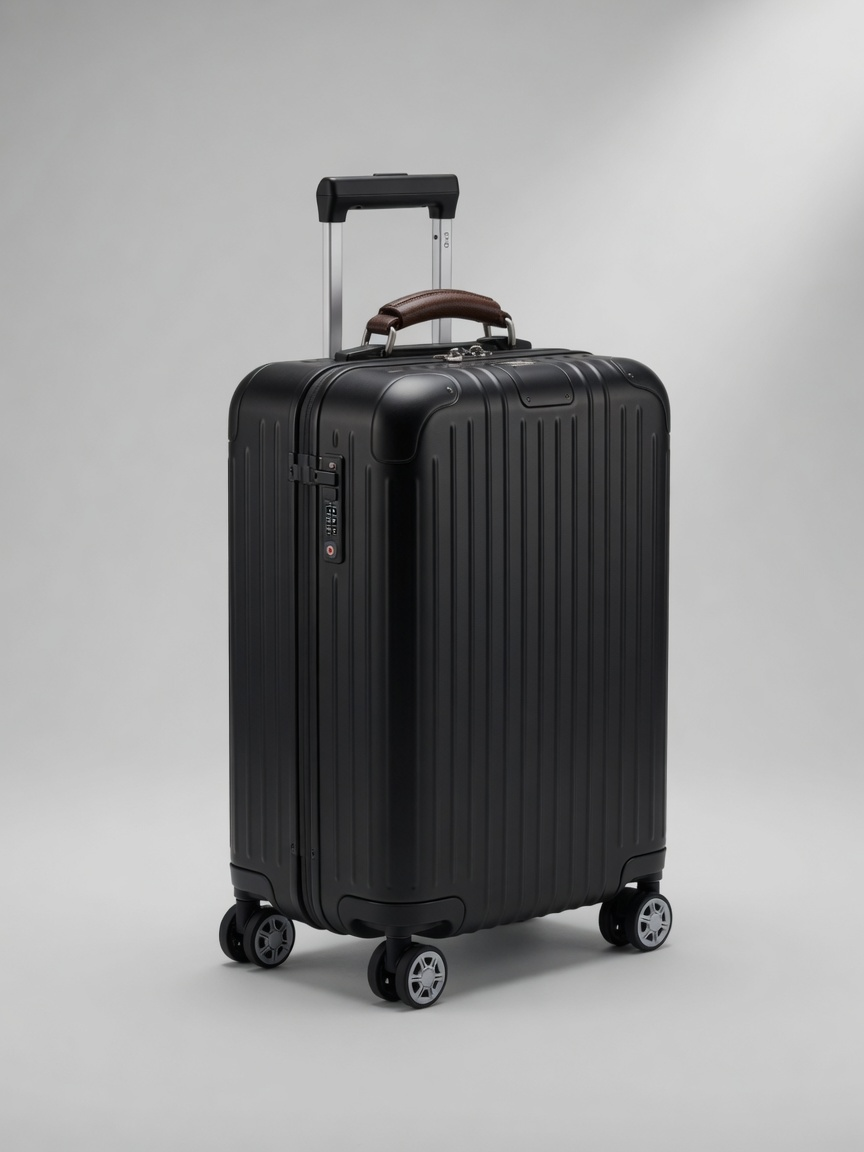
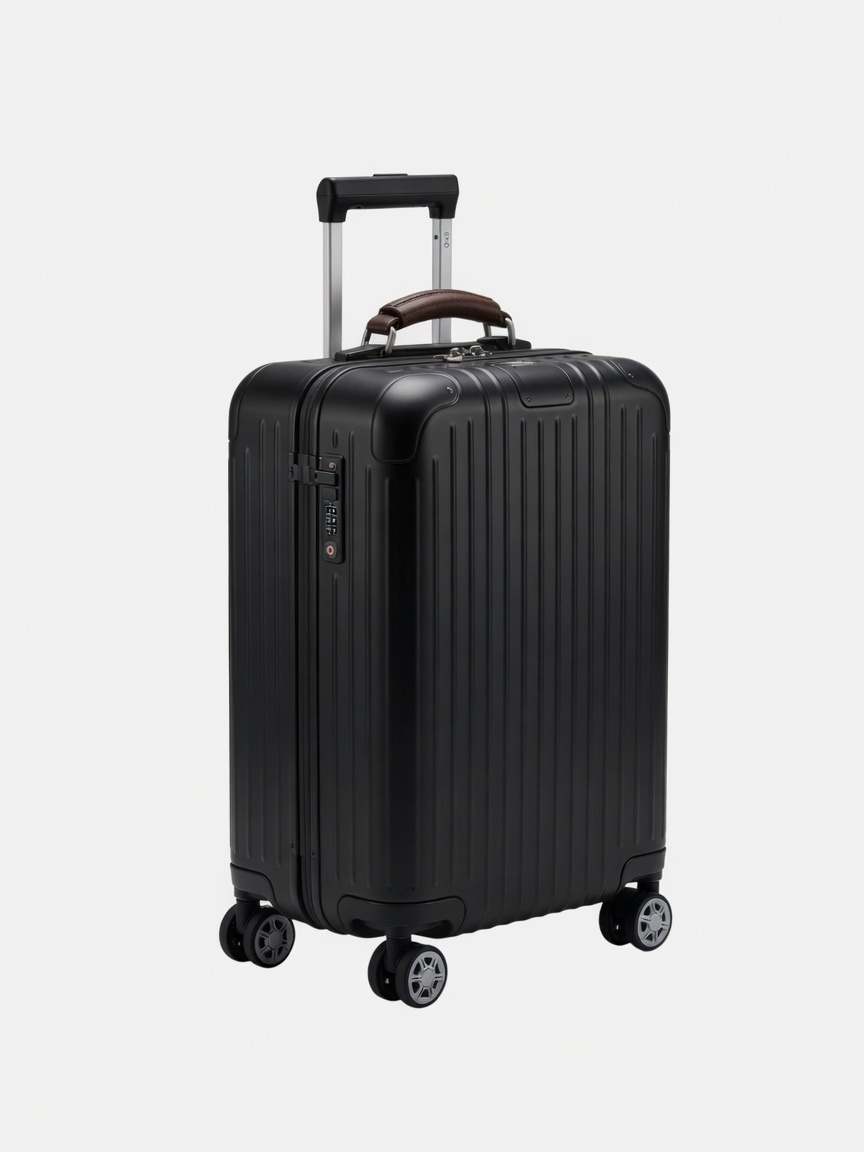
fix: pure white product photo backgrounds, no studio gradient

diff --git a/src/components/product/ProductCard.tsx b/src/components/product/ProductCard.tsx
@@ -20,12 +20,12 @@ export function ProductCard({
 }: Props) {
   return (
     <Link href={href} className="group block card-lift">
-      <div className="relative aspect-[3/4] overflow-hidden product-media">
+      <div className="relative aspect-[3/4] overflow-hidden bg-white">
         <Image
           src={coverUrl}
           alt={name}
           fill
-          className="object-contain p-5 transition duration-700 ease-out group-hover:scale-[1.03] group-hover:opacity-0"
+          className="object-contain p-4 transition duration-700 ease-out group-hover:scale-[1.02] group-hover:opacity-0"
           sizes="(max-width:768px) 50vw, 25vw"
         />
         {hoverUrl ? (
@@ -33,7 +33,7 @@ export function ProductCard({
             src={hoverUrl}
             alt=""
             fill
-            className="object-contain p-5 opacity-0 transition duration-700 ease-out group-hover:opacity-100 group-hover:scale-[1.03]"
+            className="object-contain p-4 opacity-0 transition duration-700 ease-out group-hover:opacity-100 group-hover:scale-[1.02]"
             sizes="(max-width:768px) 50vw, 25vw"
           />
         ) : null}

diff --git a/src/components/product/ProductGallery.tsx b/src/components/product/ProductGallery.tsx
@@ -12,13 +12,13 @@ export function ProductGallery({ images, alt }: { images: Img[]; alt: string }) 
 
   return (
     <div className="space-y-3">
-      <div className="relative aspect-[3/4] product-media">
+      <div className="relative aspect-[3/4] bg-white">
         <Image
           src={current.url}
           alt={alt}
           fill
           priority
-          className="object-contain p-8 sm:p-10"
+          className="object-contain p-6 sm:p-8"
           sizes="(max-width:768px) 100vw, 50vw"
         />
       </div>
@@ -29,7 +29,7 @@ export function ProductGallery({ images, alt }: { images: Img[]; alt: string }) 
               key={img.id}
               type="button"
               onClick={() => setActive(i)}
-              className={`relative h-20 w-16 shrink-0 overflow-hidden product-media transition ${
+              className={`relative h-20 w-16 shrink-0 overflow-hidden bg-white transition ${
                 i === active
                   ? "ring-1 ring-[#0a0a0a] ring-offset-2"
                   : "opacity-70 hover:opacity-100"

diff --git a/src/app/globals.css b/src/app/globals.css
@@ -46,7 +46,7 @@ body {
 }
 
 .product-media {
-  background: linear-gradient(180deg, #f0eeeb 0%, #faf9f7 100%);
+  background: #ffffff;
 }
 
 .card-lift {
